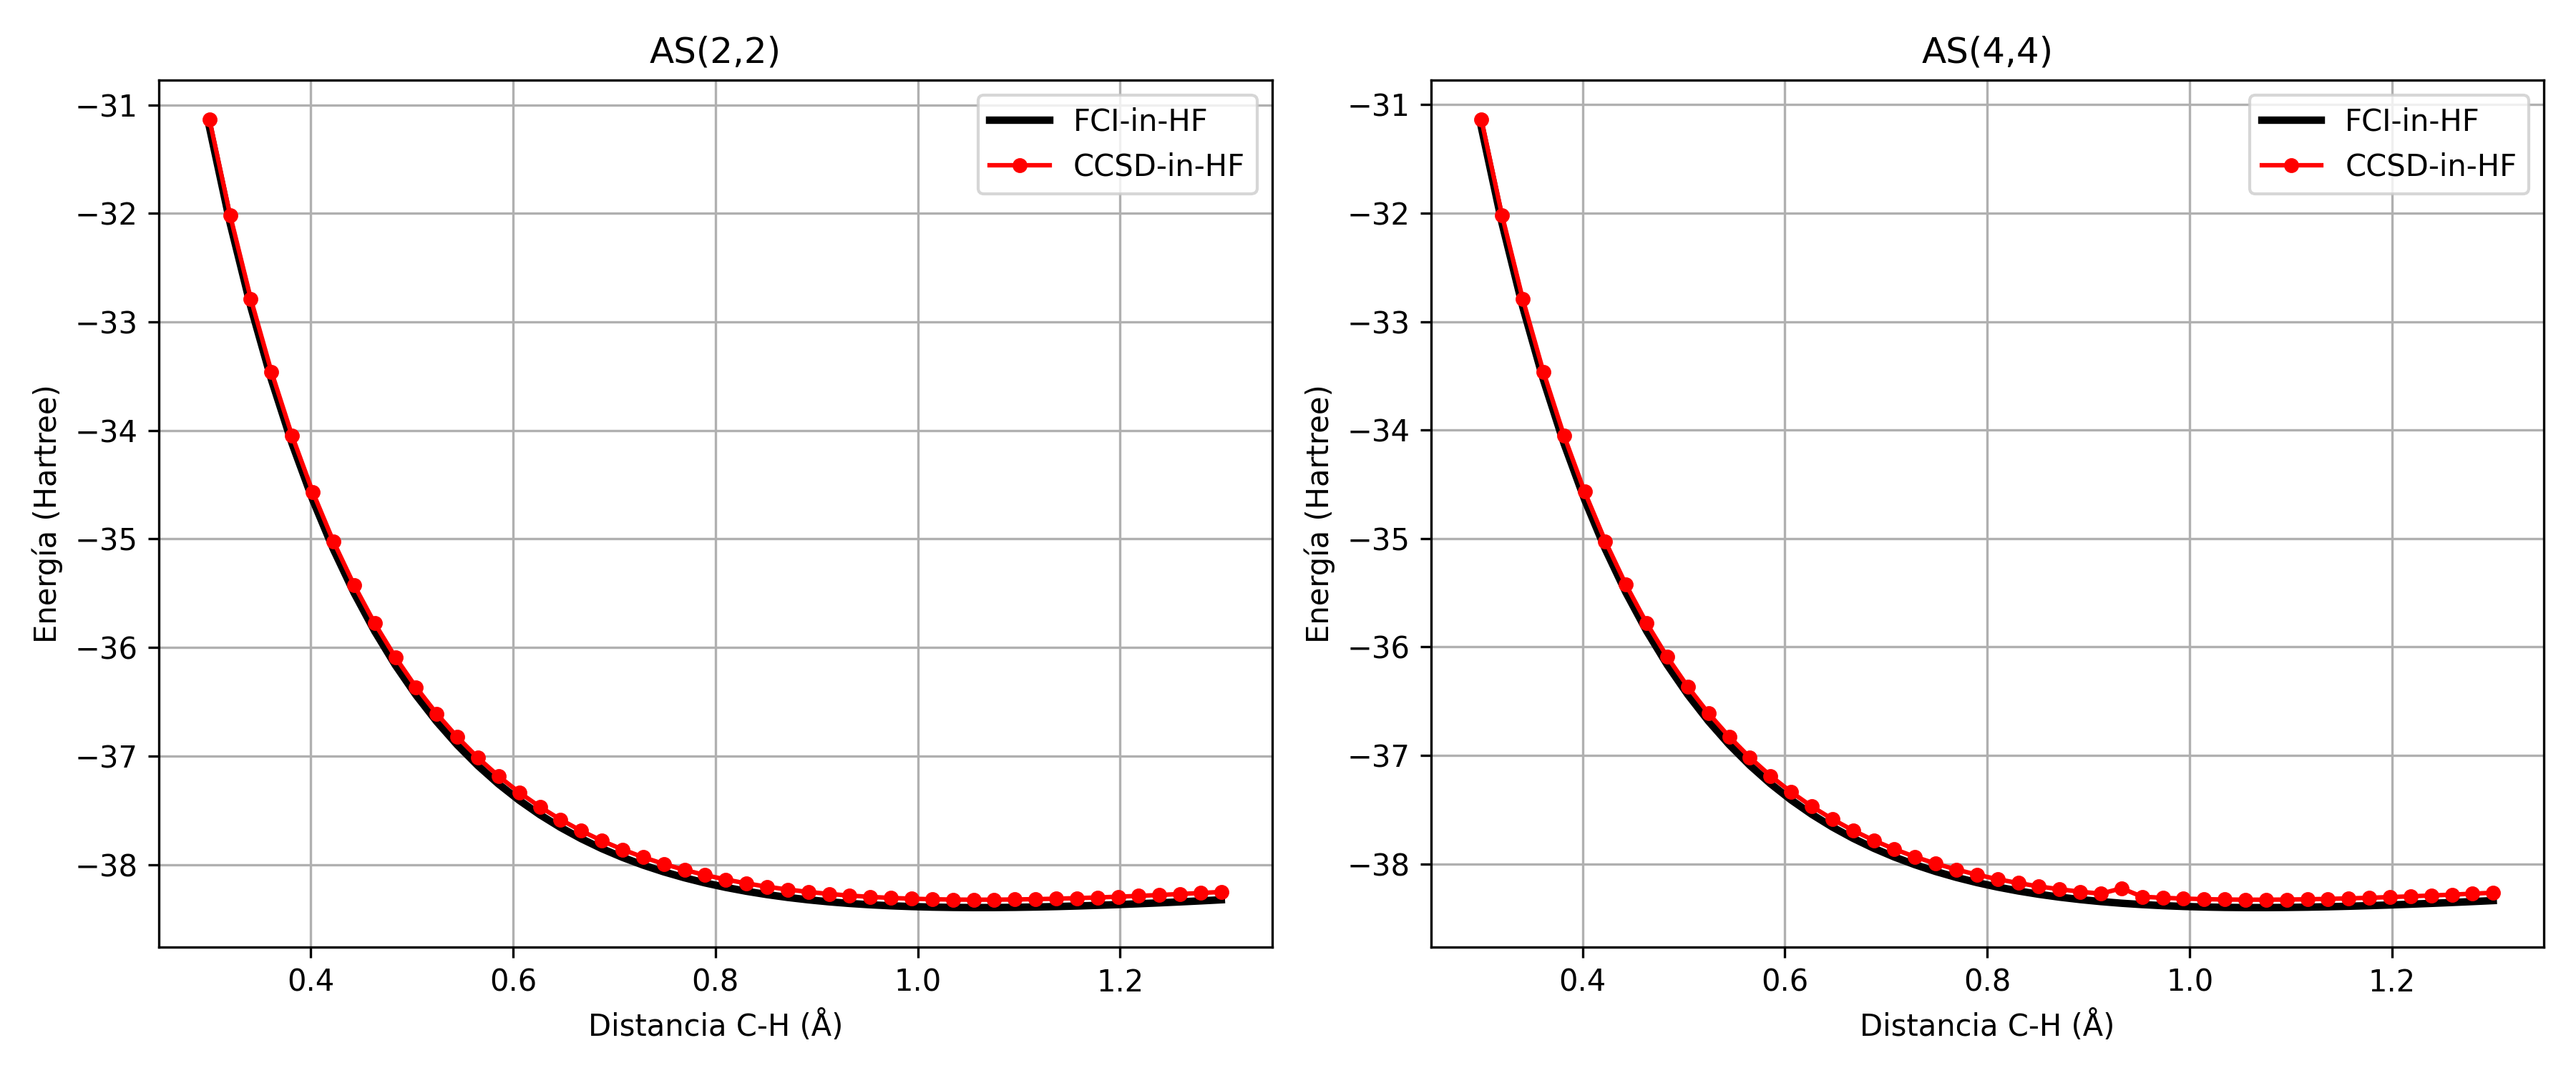
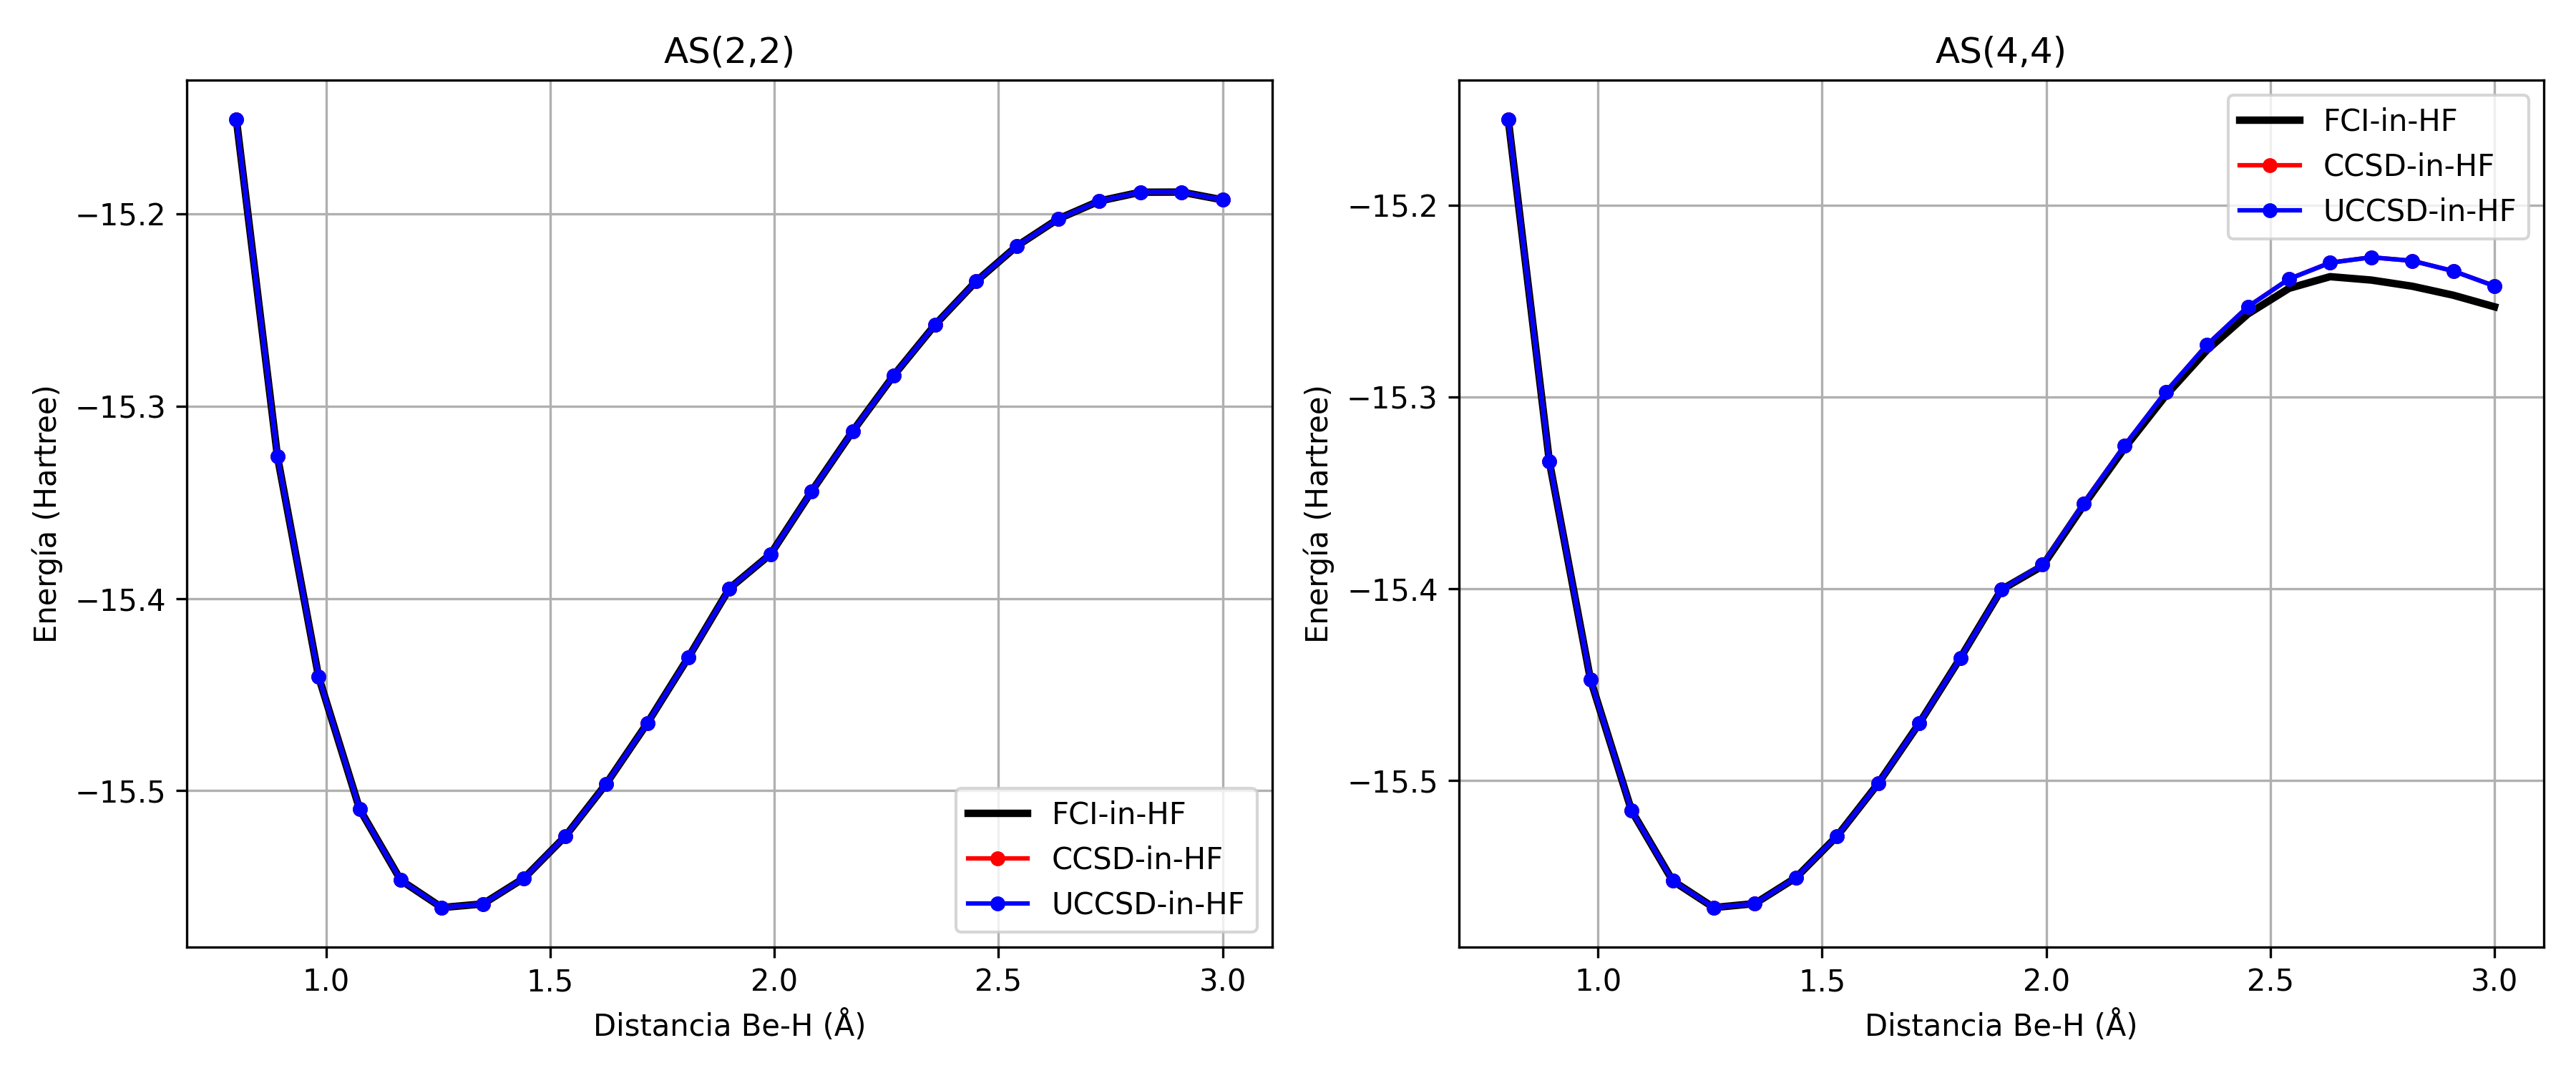
actualizo programas de disociacion

diff --git a/dissociations/LiH_qadapt.py b/dissociations/LiH_qadapt.py
@@ -1,0 +1,214 @@
+from qiskit_nature.second_q.drivers import PySCFDriver
+from qiskit_nature.second_q.transformers import ActiveSpaceTransformer
+from qiskit_nature.second_q.mappers import JordanWignerMapper
+
+from qiskit import QuantumCircuit
+from qiskit.quantum_info import SparsePauliOp, Statevector
+
+from scipy.optimize import minimize
+from itertools import product
+
+from pyscf import fci
+
+import matplotlib.pyplot as plt
+import numpy as np
+
+
+def construir_hamiltoniano_LiH(R):
+    driver = PySCFDriver(
+        atom=f"Li 0 0 0; H 0 0 {R}",
+        basis="sto3g",
+        charge=0,
+        spin=0,
+    )
+
+    problem = driver.run()
+
+    mol = driver._mol
+    mf = driver._calc
+
+    transformer = ActiveSpaceTransformer(
+        num_electrons=2,
+        num_spatial_orbitals=2,
+    )
+
+    problem_reduced = transformer.transform(problem)
+
+    hamiltoniano_fermionico = problem_reduced.hamiltonian.second_q_op()
+
+    mapper = JordanWignerMapper()
+    hamiltoniano_qubit = mapper.map(hamiltoniano_fermionico)
+
+    return hamiltoniano_qubit, problem_reduced, mol, mf
+
+
+def fci_in_active_space(H):
+    H_matrix = H.to_matrix()
+    eigvals = np.linalg.eigvalsh(H_matrix)
+    return np.min(eigvals).real
+
+
+def generar_pool_pauli(n_qubits):
+    pool = []
+    paulis = ["I", "X", "Y"]
+
+    for ops in product(paulis, repeat=n_qubits):
+        pauli_string = "".join(ops)
+
+        if pauli_string == "I" * n_qubits:
+            continue
+
+        if "X" in pauli_string or "Y" in pauli_string:
+            pool.append(SparsePauliOp.from_list([(pauli_string, 1.0)]))
+
+    return pool
+
+
+def initial_state(n_qubits):
+    qc = QuantumCircuit(n_qubits)
+
+    qc.x(0)
+    qc.x(1)
+
+    return qc
+
+
+def add_pauli_evolution(qc, pauli_string, theta):
+    active = []
+
+    for i, p in enumerate(pauli_string):
+        if p == "X":
+            qc.h(i)
+            active.append(i)
+        elif p == "Y":
+            qc.sdg(i)
+            qc.h(i)
+            active.append(i)
+
+    if len(active) == 0:
+        return
+
+    for i in active[:-1]:
+        qc.cx(i, active[-1])
+
+    qc.rz(2 * theta, active[-1])
+
+    for i in reversed(active[:-1]):
+        qc.cx(i, active[-1])
+
+    for i, p in enumerate(pauli_string):
+        if p == "X":
+            qc.h(i)
+        elif p == "Y":
+            qc.h(i)
+            qc.s(i)
+
+
+def build_ansatz(n_qubits, selected_ops, params):
+    qc = initial_state(n_qubits)
+
+    for op, theta in zip(selected_ops, params):
+        pauli_string = op.paulis[0].to_label()
+        add_pauli_evolution(qc, pauli_string, theta)
+
+    return qc
+
+
+def energy(params, H, selected_ops):
+    n_qubits = H.num_qubits
+    qc = build_ansatz(n_qubits, selected_ops, params)
+    psi = Statevector.from_instruction(qc)
+
+    return np.real(psi.expectation_value(H))
+
+
+def gradient_for_operator(H, selected_ops, params, op, delta=1e-4):
+    ops_plus = selected_ops + [op]
+
+    params_plus = np.append(params, delta)
+    params_minus = np.append(params, -delta)
+
+    e_plus = energy(params_plus, H, ops_plus)
+    e_minus = energy(params_minus, H, ops_plus)
+
+    return (e_plus - e_minus) / (2 * delta)
+
+
+def qadapt_vqe(H, n_qubits, max_iter=10, gradient_tol=1e-4):
+    selected_ops = []
+    params = np.array([])
+
+    pool = generar_pool_pauli(n_qubits)
+
+    for iteration in range(max_iter):
+        gradients = []
+
+        for op in pool:
+            grad = gradient_for_operator(H, selected_ops, params, op)
+            gradients.append(abs(grad))
+
+        best_index = int(np.argmax(gradients))
+        best_gradient = gradients[best_index]
+        best_op = pool[best_index]
+
+        print(f"Iteración {iteration}")
+        print(f"Mayor gradiente = {best_gradient:.6e}")
+        print(f"Operador elegido = {best_op.paulis[0].to_label()}")
+
+        if best_gradient < gradient_tol:
+            print("Convergencia alcanzada.")
+            break
+
+        selected_ops.append(best_op)
+        params = np.append(params, 0.0)
+
+        result = minimize(
+            energy,
+            params,
+            args=(H, selected_ops),
+            method="BFGS"
+        )
+
+        params = result.x
+
+        print(f"Energía optimizada = {result.fun:.8f} Ha")
+        print()
+
+    return energy(params, H, selected_ops)
+
+
+distancias = np.linspace(0.4, 3.5, 25)
+
+energias_qadapt = []
+energias_fci = []
+
+for R in distancias:
+    H_qubit, problem, mol, mf = construir_hamiltoniano_LiH(R)
+    n_qubits = H_qubit.num_qubits
+
+    E_qadapt = qadapt_vqe(
+        H=H_qubit,
+        n_qubits=n_qubits,
+        max_iter=10,
+        gradient_tol=1e-4
+    )
+
+    E_fci = fci_in_active_space(H_qubit)
+
+    energias_qadapt.append(E_qadapt)
+    energias_fci.append(E_fci)
+
+    print(f"R = {R:.2f} Å")
+    print(f"Q-ADAPT-VQE = {E_qadapt:.8f} Ha")
+    print(f"FCI-in HF   = {E_fci:.8f} Ha")
+    print("-" * 50)
+
+
+plt.plot(distancias, energias_qadapt, "o-", label="Q-ADAPT-VQE")
+plt.plot(distancias, energias_fci, "s--", label="FCI-in HF PySCF")
+
+plt.xlabel("Distancia Li-H (Å)")
+plt.ylabel("Energía (Ha)")
+plt.legend()
+plt.grid()
+plt.show()

diff --git a/dissociations/LiH_pbe.py b/dissociations/LiH_pbe.py
@@ -1,0 +1,65 @@
+#ANALIZAMOS PBE in HF
+import numpy as np
+import matplotlib.pyplot as plt
+from pyscf import gto, scf, fci, dft, cc
+
+distancias=np.linspace(0.4,3.5,30)
+
+energias_fci = []
+energias_dft = []
+
+
+energia_dif_dft = []
+
+for R in distancias:
+    mol= gto.M(
+        atom=f'''
+        Li   0.0000  0.0000   0.0000
+        H   0.0000  0.0000   {R} 
+        ''',
+        basis='def2-TZVP', 
+        unit='Angstrom'
+    )
+
+    ml = dft.RKS(mol)
+    ml.xc = 'pbe'
+    e_dft = ml.kernel()
+
+    cisolver = fci.FCI(mol, ml.mo_coeff)
+    e_fci, ci_vector = cisolver.kernel()
+
+   
+    energias_fci.append(e_fci)
+    energias_dft.append(e_dft)
+    
+
+    
+    energia_dif_dft.append(e_fci-e_dft)
+    
+fig, ax = plt.subplots(1, 2, figsize=(12, 5))
+
+# Primer gráfico
+
+ax[0].plot(distancias, energias_dft, "o-", label="PBE")
+
+ax[0].plot(distancias, energias_fci, "-", color="black", linewidth=2.5, label="FCI in PBE")
+
+ax[0].set_xlabel("Distancia Li-H (Å)")
+ax[0].set_ylabel("Energía (Hartree)")
+ax[0].legend()
+ax[0].grid()
+
+# Segundo gráfico
+# Aquí pones lo que quieras
+
+ax[1].plot(distancias, energia_dif_dft, "o-", label="PBE")
+
+
+
+ax[1].set_xlabel("Distancia Li-H (Å)")
+ax[1].set_ylabel(r"$\Delta E_{\mathrm{FCI}}$ (Hartree)")
+ax[1].legend()
+ax[1].grid()
+
+plt.tight_layout()
+plt.show()

diff --git a/dissociations/BeH2casci.py b/dissociations/BeH2casci.py
@@ -8,7 +8,8 @@ E_fci_in_hf_AS22 = []
 E_fci_in_hf_AS44 = []
 E_ccsd_in_hf_AS22 = []
 E_ccsd_in_hf_AS44 = []
-
+E_uccsd_in_hf_AS22 = []
+E_uccsd_in_hf_AS44 = []
 for R in distancias:
     mol = gto.M(
         atom=f"H 0 0 {-R}; Be 0 0 0; H 0 0 {R}",
@@ -38,6 +39,10 @@ for R in distancias:
     mycc22.kernel()
     E_ccsd_in_hf_AS22.append(mycc22.e_tot)
 
+    myucc22 = cc.UCCSD(mf, frozen=frozen)
+    myucc22.kernel()
+    E_uccsd_in_hf_AS22.append(myucc22.e_tot)
+
     # ---------- AS(4,4) ----------
     cas44 = mcscf.CASCI(mf, 4, 4)
     e_fci_as44 = cas44.kernel()[0]
@@ -54,6 +59,11 @@ for R in distancias:
     mycc44.kernel()
     E_ccsd_in_hf_AS44.append(mycc44.e_tot)
 
+    myucc44 = cc.UCCSD(mf, frozen= frozen)
+    myucc44.kernel()
+    E_uccsd_in_hf_AS44.append(myucc44.e_tot)
+
+
 
 fig, ax = plt.subplots(1, 2, figsize=(12, 5))
 
@@ -62,6 +72,9 @@ ax[0].plot(distancias, E_fci_in_hf_AS22, "-", color="black",
            linewidth=2.5, label="FCI-in-HF")
 ax[0].plot(distancias, E_ccsd_in_hf_AS22, "o-", color="red",
            markersize=4, label="CCSD-in-HF")
+ax[0].plot(distancias, E_uccsd_in_hf_AS22, "o-", color="blue",
+           markersize=4, label="UCCSD-in-HF")
+
 
 ax[0].set_title("AS(2,2)")
 ax[0].set_xlabel("Distancia Be-H (Å)")
@@ -74,6 +87,8 @@ ax[1].plot(distancias, E_fci_in_hf_AS44, "-", color="black",
            linewidth=2.5, label="FCI-in-HF")
 ax[1].plot(distancias, E_ccsd_in_hf_AS44, "o-", color="red",
            markersize=4, label="CCSD-in-HF")
+ax[1].plot(distancias, E_uccsd_in_hf_AS44, "o-", color="blue",
+           markersize=4, label="UCCSD-in-HF")
 
 ax[1].set_title("AS(4,4)")
 ax[1].set_xlabel("Distancia Be-H (Å)")